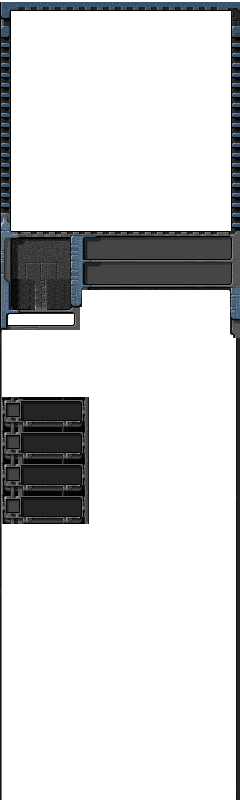
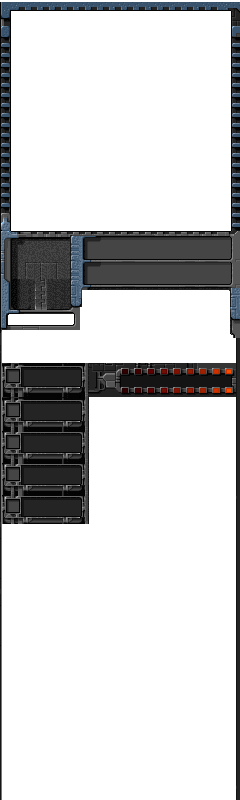
Add total base stock

Changed region(s): [[0.0, 0.4375, 0.9917, 0.5]]

diff --git a/src/ui/RecruitPanel.ts b/src/ui/RecruitPanel.ts
@@ -12,6 +12,7 @@ export class RecruitPanel
 {
     private base: Base;
     private vehicleCosts: VehicleCosts;
+    private totalStock: Phaser.Text;
     private minerButton: Phaser.Button;
     private scoutButton: Phaser.Button;
     private builderButton: Phaser.Button;
@@ -20,7 +21,7 @@ export class RecruitPanel
 
     constructor(game: Phaser.Game, player: Player)
     {
-        let positionY = 400;
+        let positionY = 367;
         const buttonHeight = 27;
         const verticalMargin = 5;
         const base = player.getArmy().getBase();
@@ -28,6 +29,9 @@ export class RecruitPanel
         this.vehicleCosts = new VehicleCosts();
         this.textStyle = new TextStyle();
 
+        this.totalStock = this.addCostTextAndImage(game, positionY, base.getStock());
+
+        positionY += 33;
         let callback = function() {
             base.buildMiner();
         };
@@ -58,6 +62,8 @@ export class RecruitPanel
 
     public update()
     {
+        this.totalStock.setText(this.base.getStock().toString());
+
         if (this.base.getStock() >= this.vehicleCosts.getCost(Miner)) {
             this.enableButton(this.minerButton);
         } else {
@@ -111,14 +117,16 @@ export class RecruitPanel
         return button;
     }
 
-    private addCostTextAndImage(game: Phaser.Game, positionY: number, cost: number)
+    private addCostTextAndImage(game: Phaser.Game, positionY: number, cost: number): Phaser.Text
     {
         const txtPositionX = game.width - 200;
         const txtPositionY = positionY + 3;
-        game.add.text(txtPositionX, txtPositionY, cost.toString(), this.textStyle.getNormalStyle());
+        const text = game.add.text(txtPositionX, txtPositionY, cost.toString(), this.textStyle.getNormalStyle());
         const oilPositionX = txtPositionX - 37;
         const oilPositionY = txtPositionY - 2;
         game.add.image(oilPositionX, oilPositionY, 'Icons', 33);
+
+        return text;
     }
 
     private enableButton(button: Phaser.Button)
